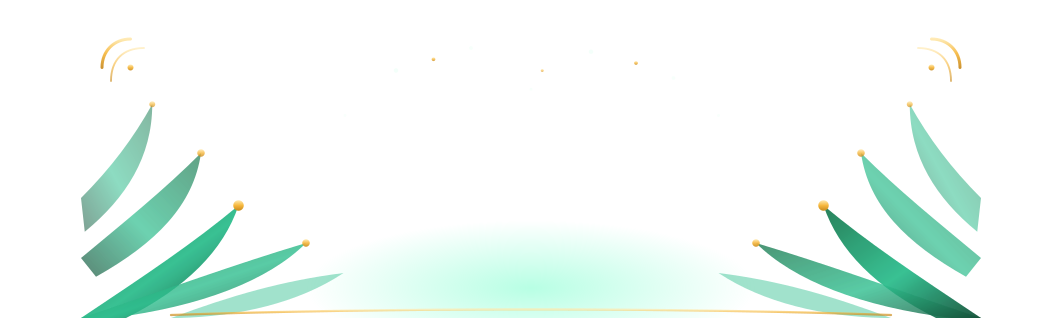
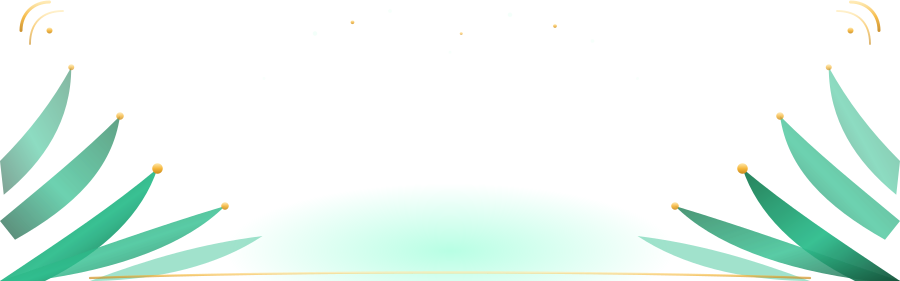
بطاقة الملف: هوامش شفافة مقصوصة من PNG + استثناء تمدد قاعدة الموضوع
card_emerald_royal.png كان حول محتواه شفافية (81px جانباً، 37 أعلى، 18
أسفل) فلم تصل حدود البطاقة أبداً لحواف الموضوع حتى مع bottom:0 — قصصنا
الشفافية من الملف نفسه (1062x336→900x281) وأضفنا استثناء
.yp-cover .yp-carddecor { height:auto; object-fit:unset } لأن قاعدة
.yp-cover img العامة كانت تمددها وتقصّ جوانبها. تحقق حي مع بطاقة فضائية
جديدة (lunar-astronaut): bottomDelta=0 leftDelta=0 rightDelta=0
naturalRatio=1.000.

🤖 Generated with Codebuff

diff --git a/_gg/src/app/globals.css b/_gg/src/app/globals.css
@@ -1035,6 +1035,8 @@ html, body {
   z-index: 1;
 }
 .yp-cover img { width: 100%; height: 100%; object-fit: cover; display: block; }
+/* البطاقة استثناء داخل الموضوع: بعرضه كاملاً وارتفاعها بنسبتها الأصلية (بدل تمدد الموضوع) */
+.yp-cover .yp-carddecor { height: auto; object-fit: unset; }
 
 /* المعلقة الجدارية — طبقة بعرض كامل أعلى الموضوع */
 .yp-ornament {
@@ -1050,15 +1052,15 @@ html, body {
   filter: drop-shadow(0 6px 12px rgba(0, 0, 0, .4));
 }
 
-/* بطاقة خلف البروفايل — طفلة .yp-cover: حافتها السفلية = حافة الموضوع السفلية بالضبط، وبعرض الموضوع */
+/* بطاقة خلف البروفايل — طفلة .yp-cover: حافتها السفلية والجانبية = حواف الموضوع بالضبط.
+   ملف PNG مقصوص من الشفافية (900×281) فالحدود تبعاً، والارتفاع تلقائي بنسبته الأصلية */
 .yp-carddecor {
   position: absolute;
   bottom: 0;
   left: 0;
   width: 100%;
-  height: min(230px, 26vh);
-  object-fit: cover;
-  object-position: center bottom;
+  height: auto;
+  display: block;
   z-index: 3;
   pointer-events: none;
 }
